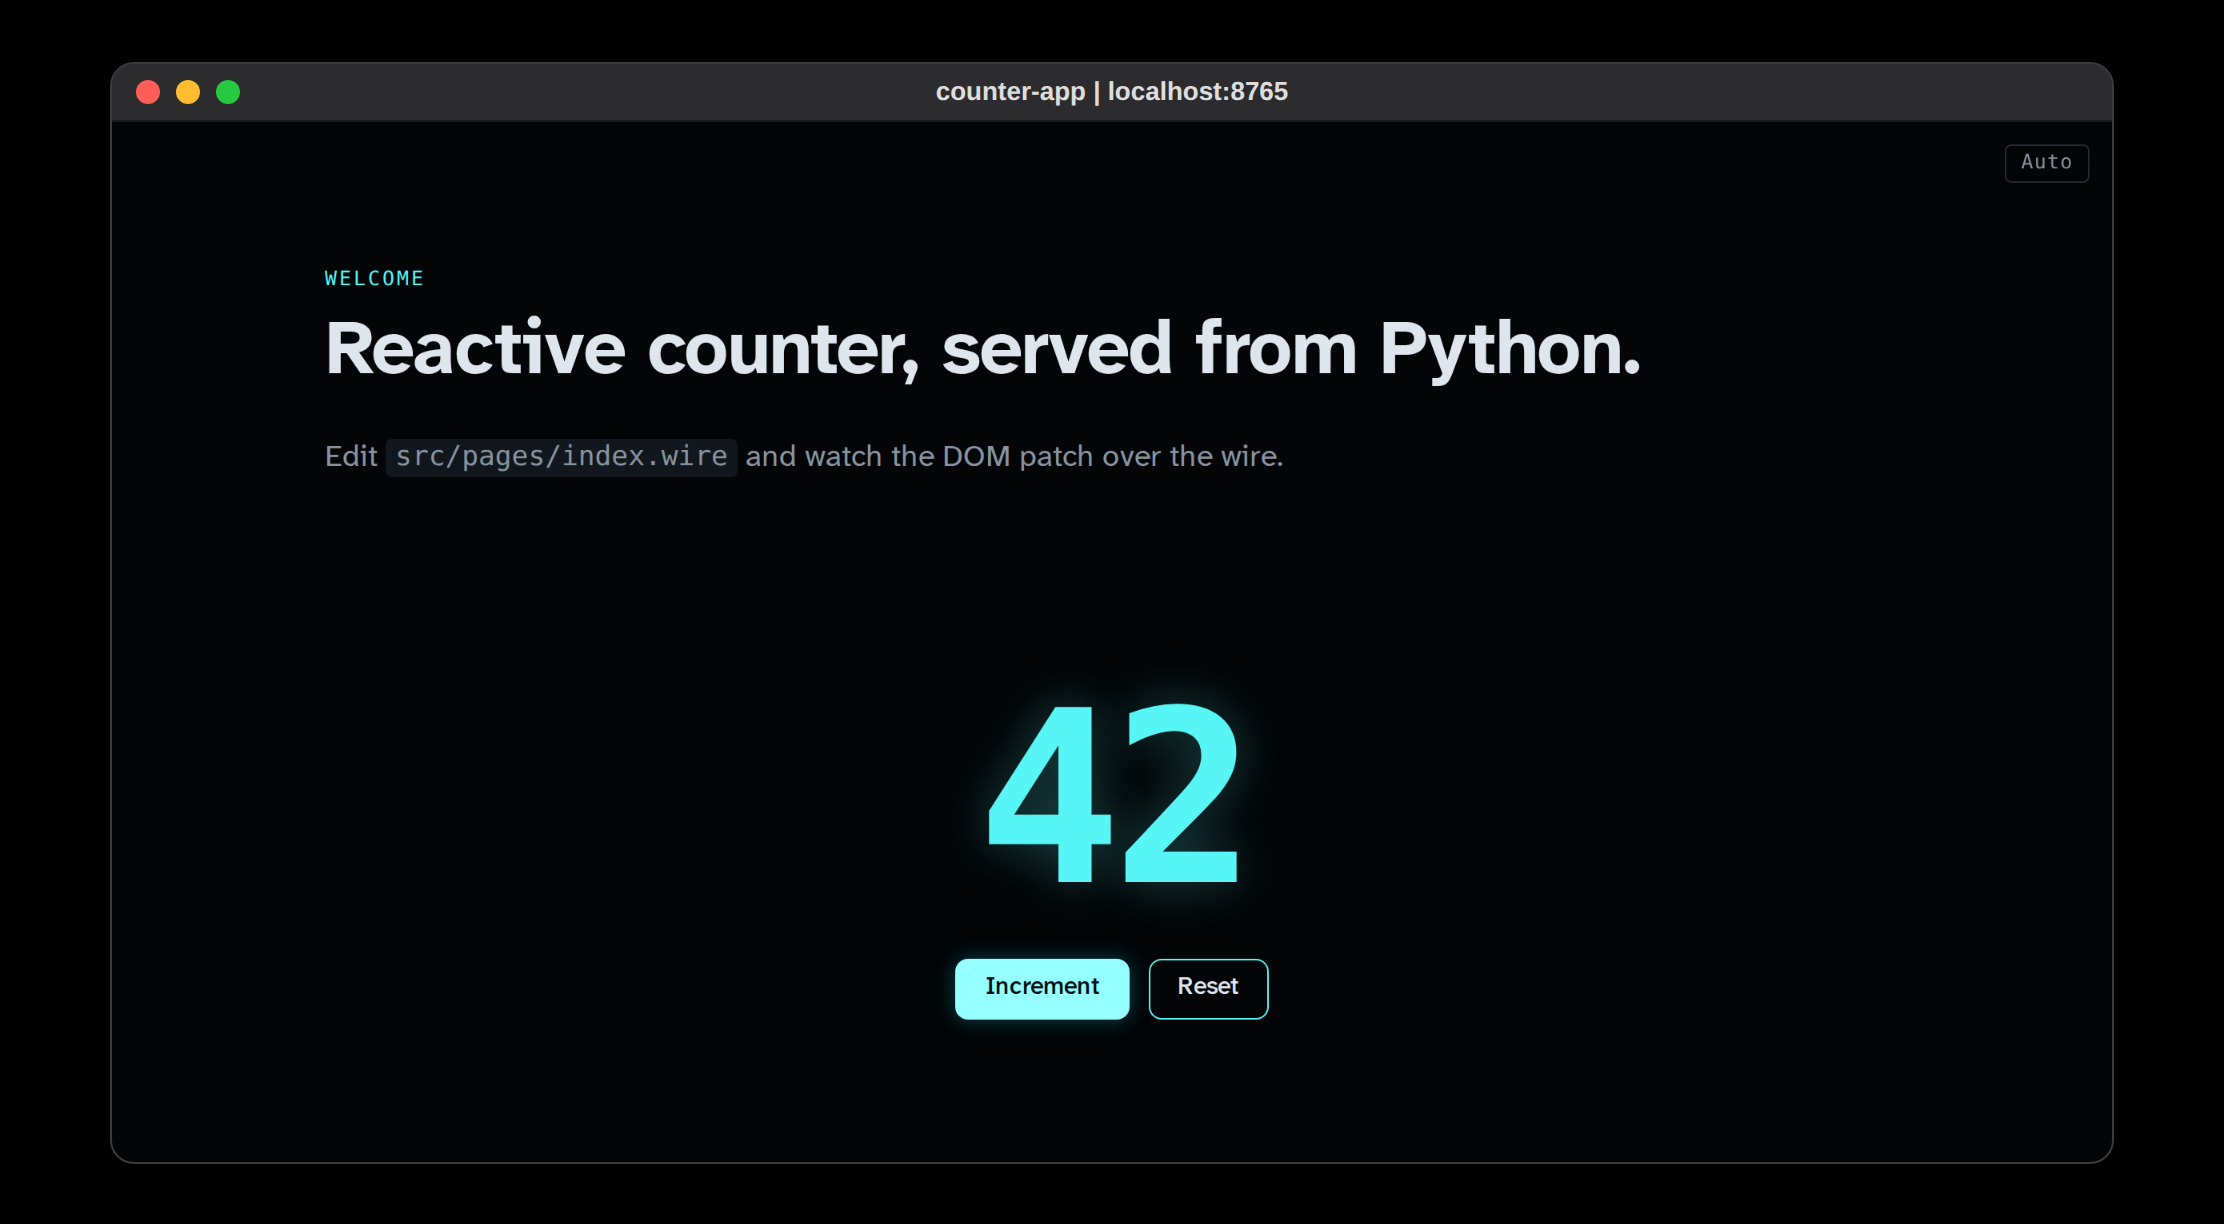
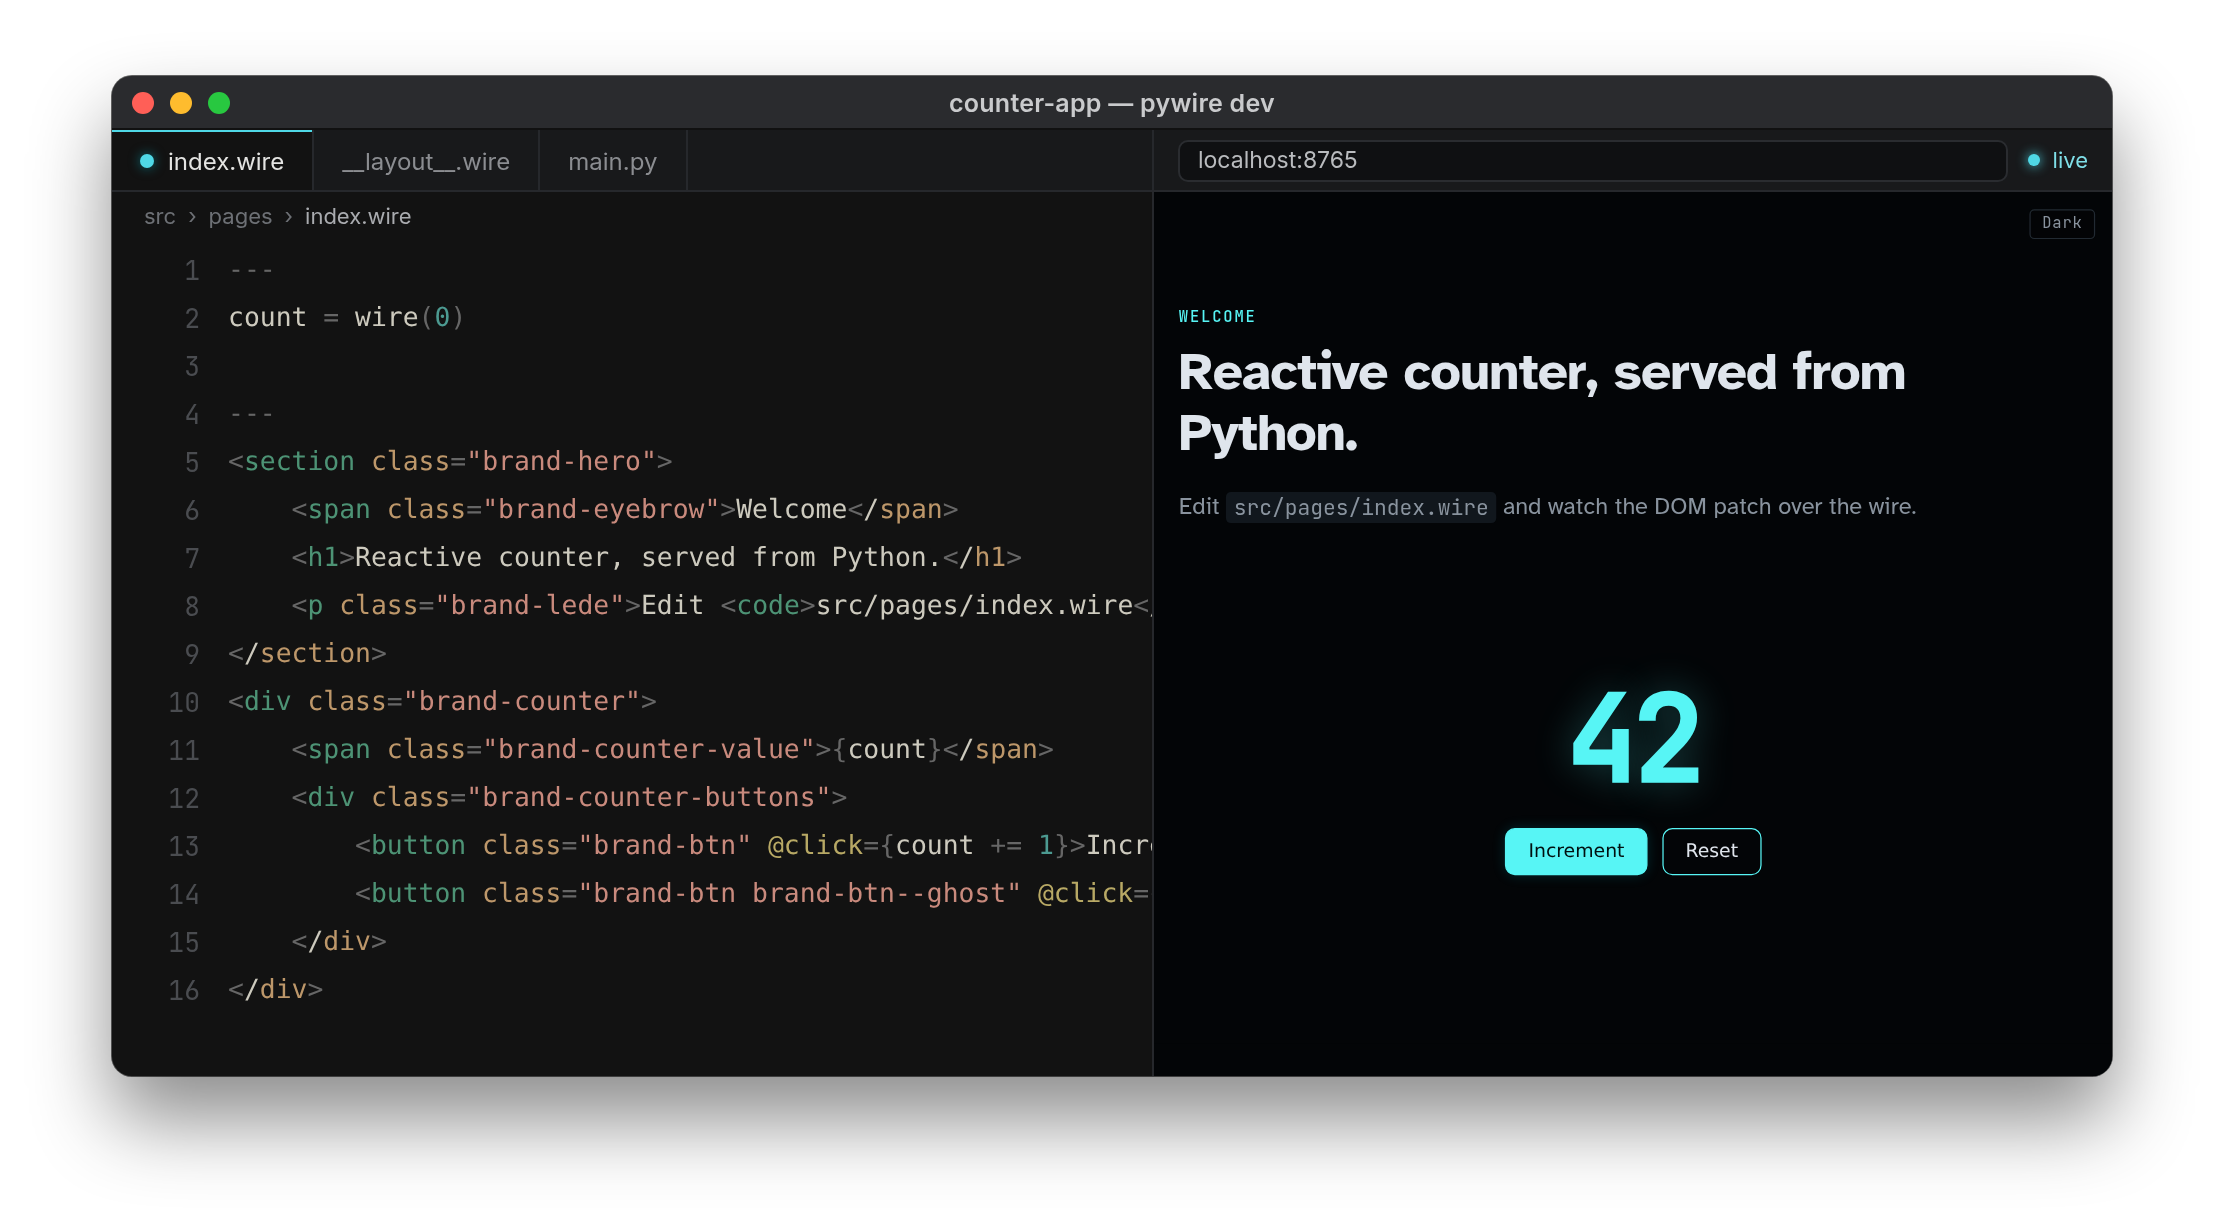
pywire cover: editor + live preview in the shared window frame; tag .wire fence
Claude-Session: https://claude.ai/code/session_01H8MEwTUZH44PwgbSJLd19V

diff --git a/src/content/posts/building-pywire/index.md b/src/content/posts/building-pywire/index.md
@@ -6,7 +6,7 @@ draft: true
 pubDate: 2026-09-27
 cover:
   image: ./cover.png
-  alt: The pywire counter starter app, showing a count of 42 with Increment and Reset buttons
+  alt: A .wire file in an editor beside the running pywire counter app showing a count of 42
   caption: The starter app from uvx create-pywire-app
 tags: [pywire, python, web-development, compilers, open-source]
 showReadingTime: true
@@ -28,7 +28,7 @@ It's nearly 600 commits, twelve independently versioned packages, and more than 
 
 A pywire page is a `.wire` file: Python in a fence at the top, HTML below.
 
-```
+```wire
 ---
 count = wire(0)
 ---

diff --git a/src/content/projects/pywire/index.md b/src/content/projects/pywire/index.md
@@ -3,7 +3,7 @@ title: "pywire"
 description: "An open-source, HTML-over-the-wire Python web framework. Live at [pywire.dev](https://pywire.dev)"
 cover:
   image: ./cover.png
-  alt: The pywire counter starter app, showing a count of 42 with Increment and Reset buttons
+  alt: A .wire file in an editor beside the running pywire counter app showing a count of 42
   caption: The counter app from uvx create-pywire-app
 showToc: false
 weight: 0
